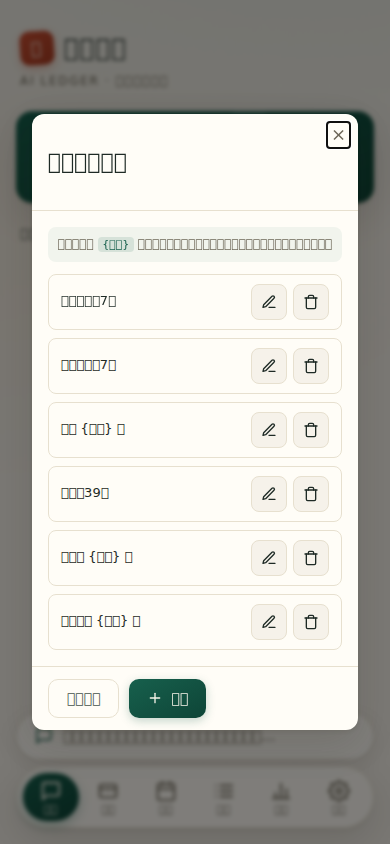
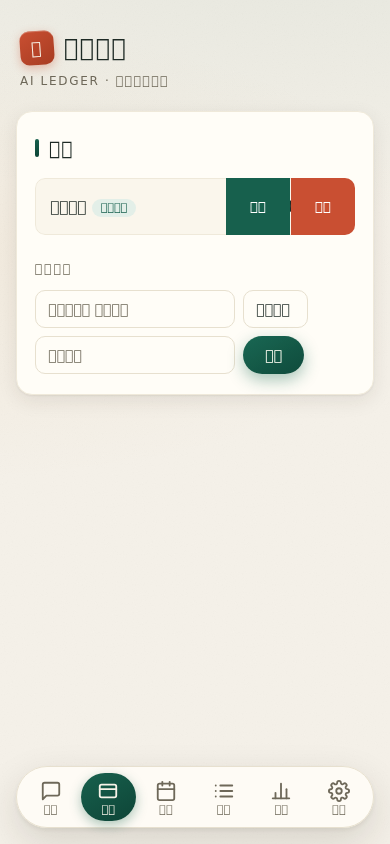
feat(ui): af-swipe-cell 增加 change 事件并移除 PC 端 disabled 属性
- open()/close() 派发 af-swipe-cell:change（open:boolean），支持排他打开
- 移除 disabled 属性（纯移动端组件，无需 PC 端支持）
- React 包装层/类型声明/单元测试同步

diff --git a/packages/ui/src/components/af-swipe-cell.js b/packages/ui/src/components/af-swipe-cell.js
@@ -81,11 +81,10 @@ export class AfSwipeCell extends AfElement {
       const threshold = maxLeft * THRESHOLD;
       // 超过阈值吸附到完全打开，否则回弹收起
       if (this._offset <= -threshold) {
-        this._offset = -maxLeft;
+        this.open();
       } else {
-        this._offset = 0;
+        this.close();
       }
-      this._track.style.setProperty('--af-swipe-x', this._offset + 'px');
     };
 
     this.addEventListener('touchstart', this._onTouchStart, { passive: true });
@@ -111,11 +110,14 @@ export class AfSwipeCell extends AfElement {
     if (!this._right) return;
     this._offset = -this._right.offsetWidth;
     this._track.style.setProperty('--af-swipe-x', this._offset + 'px');
+    this.emit('af-swipe-cell:change', { open: true });
   }
 
   close() {
+    if (this._offset === 0) return;
     this._offset = 0;
     this._track.style.setProperty('--af-swipe-x', '0px');
+    this.emit('af-swipe-cell:change', { open: false });
   }
 
   unmounted() {
@@ -125,5 +127,3 @@ export class AfSwipeCell extends AfElement {
     this.removeEventListener('click', this._onClick);
   }
 }
-
-AfElement.defineProp(AfSwipeCell.prototype, 'disabled', { type: Boolean, default: false });

diff --git a/test/af-swipe-cell.test.js b/test/af-swipe-cell.test.js
@@ -94,6 +94,25 @@ describe('af-swipe-cell', () => {
     expect(x).toBe('0px');
   });
 
+  it('open()/close() 派发 af-swipe-cell:change（排他用）', () => {
+    const el = makeSwipeCell({ content: '内容', right: '<button>删除</button>' });
+    Object.defineProperty(el.$('[data-role="right"]'), 'offsetWidth', { value: 80, configurable: true });
+    const handler = vi.fn();
+    el.addEventListener('af-swipe-cell:change', handler);
+    el.open();
+    expect(handler).toHaveBeenLastCalledWith(expect.objectContaining({ detail: { open: true } }));
+    el.close();
+    expect(handler).toHaveBeenLastCalledWith(expect.objectContaining({ detail: { open: false } }));
+  });
+
+  it('close() 已收起时不重复派发 change', () => {
+    const el = makeSwipeCell({ content: '内容', right: '<button>删除</button>' });
+    const handler = vi.fn();
+    el.addEventListener('af-swipe-cell:change', handler);
+    el.close();
+    expect(handler).not.toHaveBeenCalled();
+  });
+
   it('点击 data-action 按钮派发 af-swipe-cell:action', () => {
     const el = makeSwipeCell({ content: '内容', right: '<button data-action="delete">删除</button>' });
     const handler = vi.fn();

diff --git a/packages/react/index.d.ts b/packages/react/index.d.ts
@@ -33,7 +33,7 @@ export declare const AfTabbar: (props: P<'tabs' | 'activeIndex' | 'fixed' | 'ari
 export declare const AfStepper: (props: P<'value' | 'min' | 'max' | 'step' | 'disabled' | 'ariaLabel'> & E<'Change'> & Attrs) => ReactElement;
 export declare const AfField: (props: P<'label' | 'icon' | 'type' | 'inputType' | 'value' | 'placeholder' | 'help' | 'error' | 'disabled' | 'readonly' | 'ariaLabel'> & E<'Input' | 'Change'> & Attrs) => ReactElement;
 export declare const AfPullRefresh: (props: P<'refreshing'> & E<'Refresh'> & Attrs) => ReactElement;
-export declare const AfSwipeCell: (props: P<'disabled'> & E<'Action'> & Attrs) => ReactElement;
+export declare const AfSwipeCell: (props: P<never> & E<'Action' | 'Change'> & Attrs) => ReactElement;
 export declare const AfRate: (props: P<'value' | 'max' | 'readonly' | 'size' | 'label'> & E<'Change'> & Attrs) => ReactElement;
 export declare const AfNoticeBar: (props: P<'text' | 'scroll'> & Attrs) => ReactElement;
 export declare const AfProgress: (props: P<'value' | 'max' | 'color'> & Attrs) => ReactElement;

diff --git a/packages/react/components/af-swipe-cell.js b/packages/react/components/af-swipe-cell.js
@@ -2,6 +2,5 @@ import { AfSwipeCell as SwipeCell } from '@af-mobile/ui/components/af-swipe-cell
 import { createWrapper } from '../lib/wrapper.js';
 
 export const AfSwipeCell = createWrapper('af-swipe-cell', SwipeCell, {
-  props: ['disabled'],
-  events: ['af-swipe-cell:action'],
+  events: ['af-swipe-cell:action', 'af-swipe-cell:change'],
 });

diff --git a/.smoke/smoke.py b/.smoke/smoke.py
@@ -97,7 +97,45 @@ with sync_playwright() as p:
             page.wait_for_timeout(500)
             log("Chat closed via x button OK")
 
-    # ---- 7. Final report ----
+    # ---- 7. af-swipe-cell 左滑（纯触屏手势，无需 PC/鼠标支持） ----
+    tabs.nth(1).click()
+    page.wait_for_timeout(400)
+    # 列表为空则先造一个账户，保证有可滑动的单元格
+    if page.locator("af-swipe-cell").count() == 0:
+        page.locator(".account-form input[placeholder*='账户名']").fill("冒烟账户")
+        page.locator(".account-form input[placeholder*='初始余额']").fill("100")
+        page.locator(".account-form button[type='submit']").click()
+        page.wait_for_timeout(500)
+    cells = page.locator("af-swipe-cell")
+    assert cells.count() > 0, "af-swipe-cell not found"
+    first = cells.first
+
+    SWIPE_LEFT_JS = """(el) => {
+      const rect = el.getBoundingClientRect();
+      const mk = (type, x) => {
+        const t = new Touch({ identifier: 1, target: el, clientX: x, clientY: rect.top + rect.height / 2 });
+        el.dispatchEvent(new TouchEvent(type, { touches: [t], targetTouches: [t], changedTouches: [t], bubbles: true, cancelable: true }));
+      };
+      mk('touchstart', rect.right - 10);
+      for (let i = 1; i <= 10; i++) mk('touchmove', rect.right - 10 - i * 20);
+      mk('touchend', rect.right - 10 - 200);
+    }"""
+    offset_js = "(el) => getComputedStyle(el.querySelector('[data-role=\"track\"]')).getPropertyValue('--af-swipe-x')"
+
+    first.evaluate(SWIPE_LEFT_JS)
+    page.wait_for_timeout(400)
+    x = first.evaluate(offset_js)
+    assert x.strip().startswith("-"), f"swipe-to-open failed, x={x!r}"
+    log("Swipe cell: swipe-to-open OK")
+
+    # 点击内容区收起（组件点击非操作区自动 close）
+    first.evaluate("(el) => { const c = el.querySelector('[data-role=\"content\"]'); const r = c.getBoundingClientRect(); el.dispatchEvent(new MouseEvent('click', { bubbles: true, clientX: r.left + 10, clientY: r.top + 10 })); }")
+    page.wait_for_timeout(400)
+    x2 = first.evaluate(offset_js)
+    assert x2.strip() in ("", "0px", "0"), f"click-to-close failed, x={x2!r}"
+    log("Swipe cell: click-to-close OK")
+
+    # ---- 8. Final report ----
     log("=" * 40)
     log(f"Total errors: {len(errors)}")
     for e in errors:
